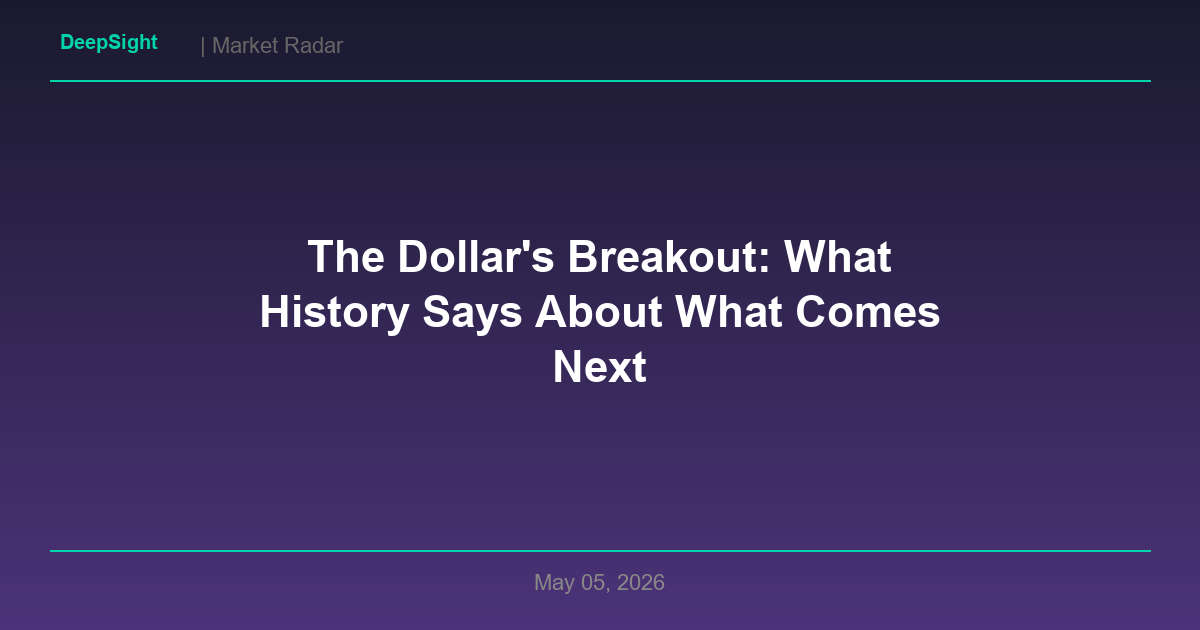
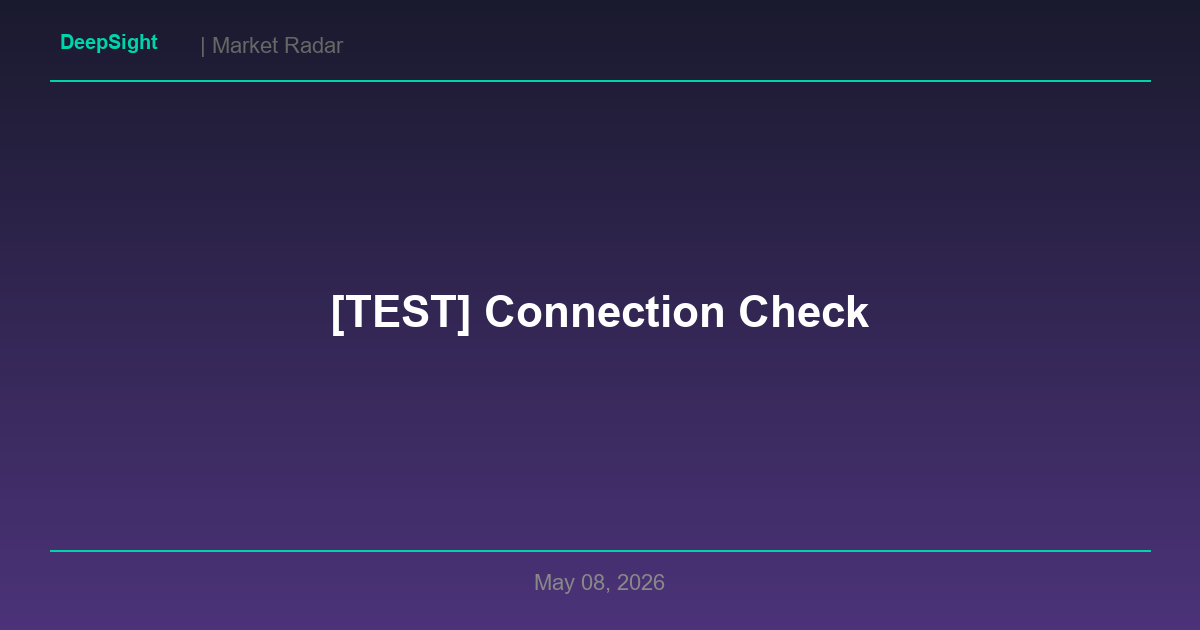
fix: Substack poster - 3 critical fixes
1. Test mode (--test) now only checks login, NO longer publishes test articles
2. Step 6b publish dialog: increased wait from 2s→5s + 3 retry attempts with 8s timeout (fixes CI headless)
3. Added debug screenshots on retry failure for easier diagnosis

Changed region(s): [[0.2158, 0.3619, 0.8017, 0.6032]]

diff --git a/substack_poster.py b/substack_poster.py
@@ -877,37 +877,47 @@ def post_to_substack(article):
 
             # Step 6b: 点击 "Send to everyone now" 完成发布
             print("    [6b] Looking for Send/Publish button in dialog...")
-            time.sleep(2)
+            time.sleep(5)  # Wait longer for dialog to fully render (was 2, too short for CI)
 
+            # Retry logic: dialog may take time to appear in headless CI
             send_sels = [
                 'button:has-text("Send to everyone now")',
                 'button:has-text("Publish now")',
-                'button:has-text("Send")',
                 '[role="button"]:has-text("Send to everyone now")',
+                'button:has-text("Send")',
             ]
 
-            for sel in send_sels:
-                try:
-                    btn = page.locator(sel).first
-                    if btn.is_visible(timeout=5000):
-                        btn.click()
-                        published = True
-                        print(f"    ✅ Clicked send button: {sel}")
-                        time.sleep(5)
+            for attempt in range(3):
+                for sel in send_sels:
+                    try:
+                        btn = page.locator(sel).first
+                        if btn.is_visible(timeout=8000):
+                            btn.click()
+                            published = True
+                            print(f"    ✅ Clicked send button: {sel} (attempt {attempt+1})")
+                            time.sleep(5)
 
-                        # 可能还有确认对话框
-                        for csel in ['button:has-text("Confirm")', 'button:has-text("Yes")']:
-                            try:
-                                cb = page.locator(csel).first
-                                if cb.is_visible(timeout=3000):
-                                    cb.click()
-                                    time.sleep(3)
-                                    break
-                            except Exception:
-                                continue
-                        break
-                except Exception:
-                    continue
+                            # 可能还有确认对话框
+                            for csel in ['button:has-text("Confirm")', 'button:has-text("Yes")']:
+                                try:
+                                    cb = page.locator(csel).first
+                                    if cb.is_visible(timeout=3000):
+                                        cb.click()
+                                        time.sleep(3)
+                                        break
+                                except Exception:
+                                    continue
+                            break
+                    except Exception:
+                        continue
+                
+                if published:
+                    break
+                
+                # Take screenshot for debugging
+                page.screenshot(path=os.path.join(debug_dir, f"substack_6b_attempt{attempt+1}.png"))
+                print(f"    ⚠ Send button not found (attempt {attempt+1}/3), retrying...")
+                time.sleep(5)
 
             if not published:
                 # 最终兜底：检查 URL 或 Ctrl+S 保存草稿
@@ -1037,15 +1047,31 @@ def main():
     print()
 
     if test_mode:
-        print("[Test Mode] Checking login only...\n")
-        result, url = post_to_substack({
-            "title": "[TEST] Connection Check",
-            "subtitle": "",
-            "content": "This is a test post. Please ignore.",
-            "tags": [],
-        })
-        print(f"\nResult: {'OK' if result else 'FAILED'} | URL: {url}")
-        return
+        print("[Test Mode] Checking login only (no post will be published)...\n")
+        from playwright.sync_api import sync_playwright as _pw
+        user_data_dir = os.path.join(SESSION_DIR, "substack_profile")
+        os.makedirs(user_data_dir, exist_ok=True)
+        with _pw() as p:
+            context = p.chromium.launch_persistent_context(
+                user_data_dir,
+                headless=IS_CI,
+                slow_mo=100 if not IS_CI else 50,
+                viewport={"width": 1280, "height": 900},
+                user_agent="Mozilla/5.0 (Windows NT 10.0; Win64; x64) AppleWebKit/537.36 (KHTML, like Gecko) Chrome/125.0.0.0 Safari/537.36",
+            )
+            page = context.new_page()
+            page.goto("https://substack.com/settings", timeout=60000)
+            time.sleep(5)
+            for wait in range(30):
+                title = page.title()
+                if all(x not in title for x in ["稍候", "Checking", "Just a moment", "Attention"]):
+                    break
+                time.sleep(2)
+            settings_text = page.locator("body").inner_text(timeout=5000)
+            logged_in = any(ind in settings_text for ind in [SUBSTACK_EMAIL, "broadcastmarketintelligence", "Your account"])
+            context.close()
+            print(f"\nLogin: {'✅ OK' if logged_in else '❌ FAILED'}")
+            return
 
     # Check if today is a Substack publishing day (Mon/Wed/Fri)
     weekday = datetime.datetime.utcnow().weekday()  # 0=Mon, 6=Sun
